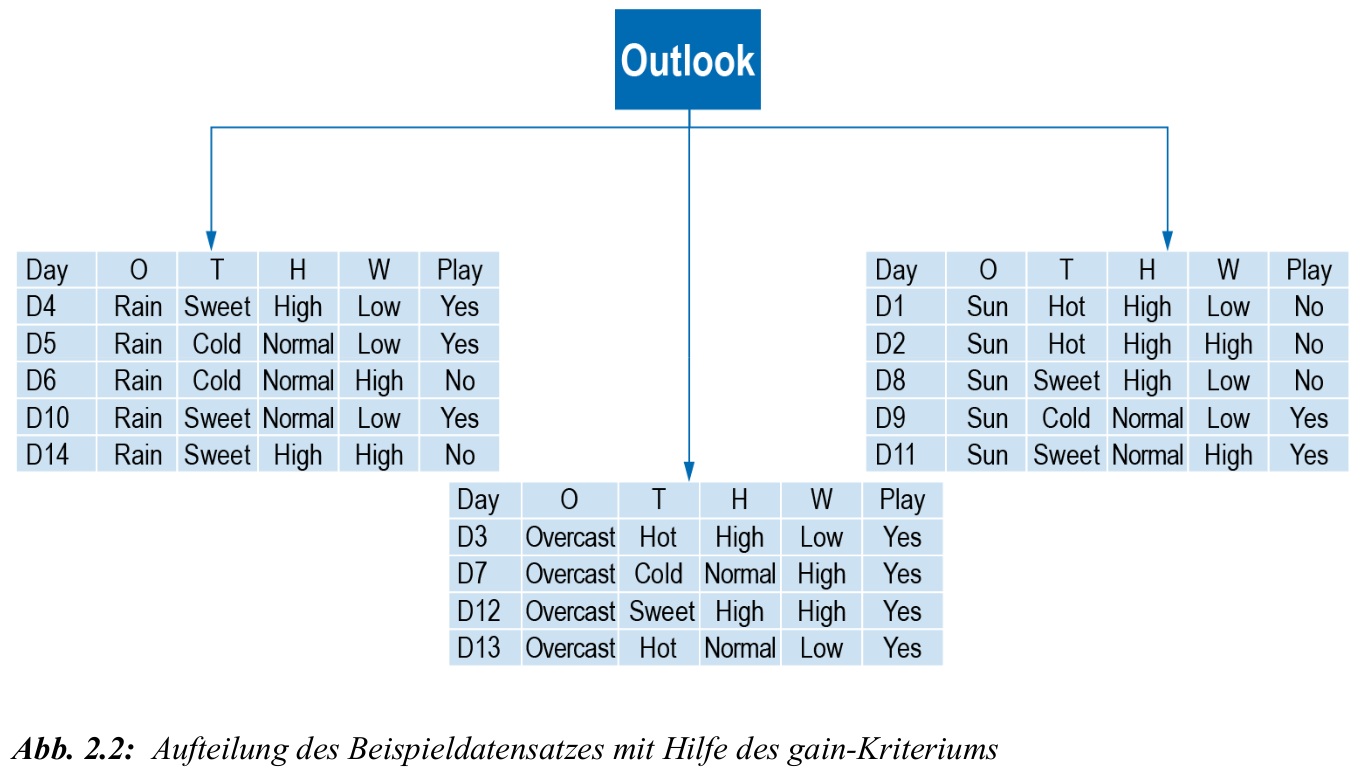
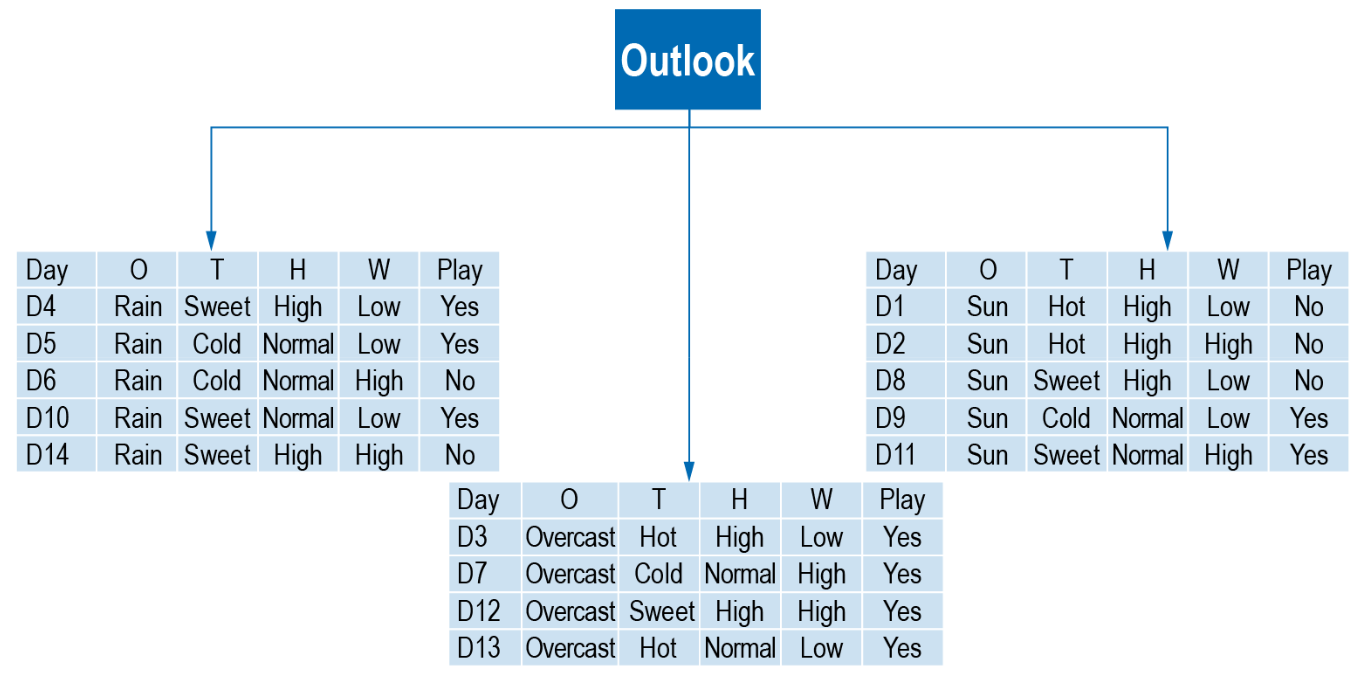
add more precision

Changed region(s): [[0.0, 0.3088, 1.0, 1.0], [0.1541, 0.0618, 0.8628, 0.2162]]

diff --git a/styles.css b/styles.css
@@ -40,3 +40,53 @@
   border-left-color: #3fb618;
   background: rgba(63, 182, 24, .05);
 }
+
+/* Algorithm box in the style of LaTeX algorithm2e (rules, numbered lines) */
+.algorithm {
+  border-top: 2px solid #343a40;
+  border-bottom: 2px solid #343a40;
+  padding: .4rem .5rem;
+  margin: 1.25rem 0;
+}
+.algorithm > p:first-child {
+  border-bottom: 1px solid #343a40;
+  padding-bottom: .35rem;
+  margin-bottom: .5rem;
+}
+.algorithm .alg-io p {
+  margin-bottom: .5rem;
+}
+.algorithm > ol {
+  list-style: none;
+  counter-reset: alg-line;
+  padding-left: 2.2em;
+}
+.algorithm > ol > li {
+  counter-increment: alg-line;
+  position: relative;
+}
+.algorithm > ol > li::before {
+  content: counter(alg-line);
+  position: absolute;
+  left: -2.2em;
+  width: 1.4em;
+  text-align: right;
+  color: #6c757d;
+  font-size: .85em;
+  line-height: 1.9;
+}
+.algorithm .alg-comment {
+  display: block;
+  color: #6c757d;
+}
+.algorithm .alg-comment::before {
+  content: "\25B7\00a0";
+}
+.algorithm .alg-stop {
+  border-top: 1px solid #343a40;
+  padding-top: .5rem;
+  margin-top: .5rem;
+}
+.algorithm .alg-stop ul {
+  margin-bottom: 0;
+}
